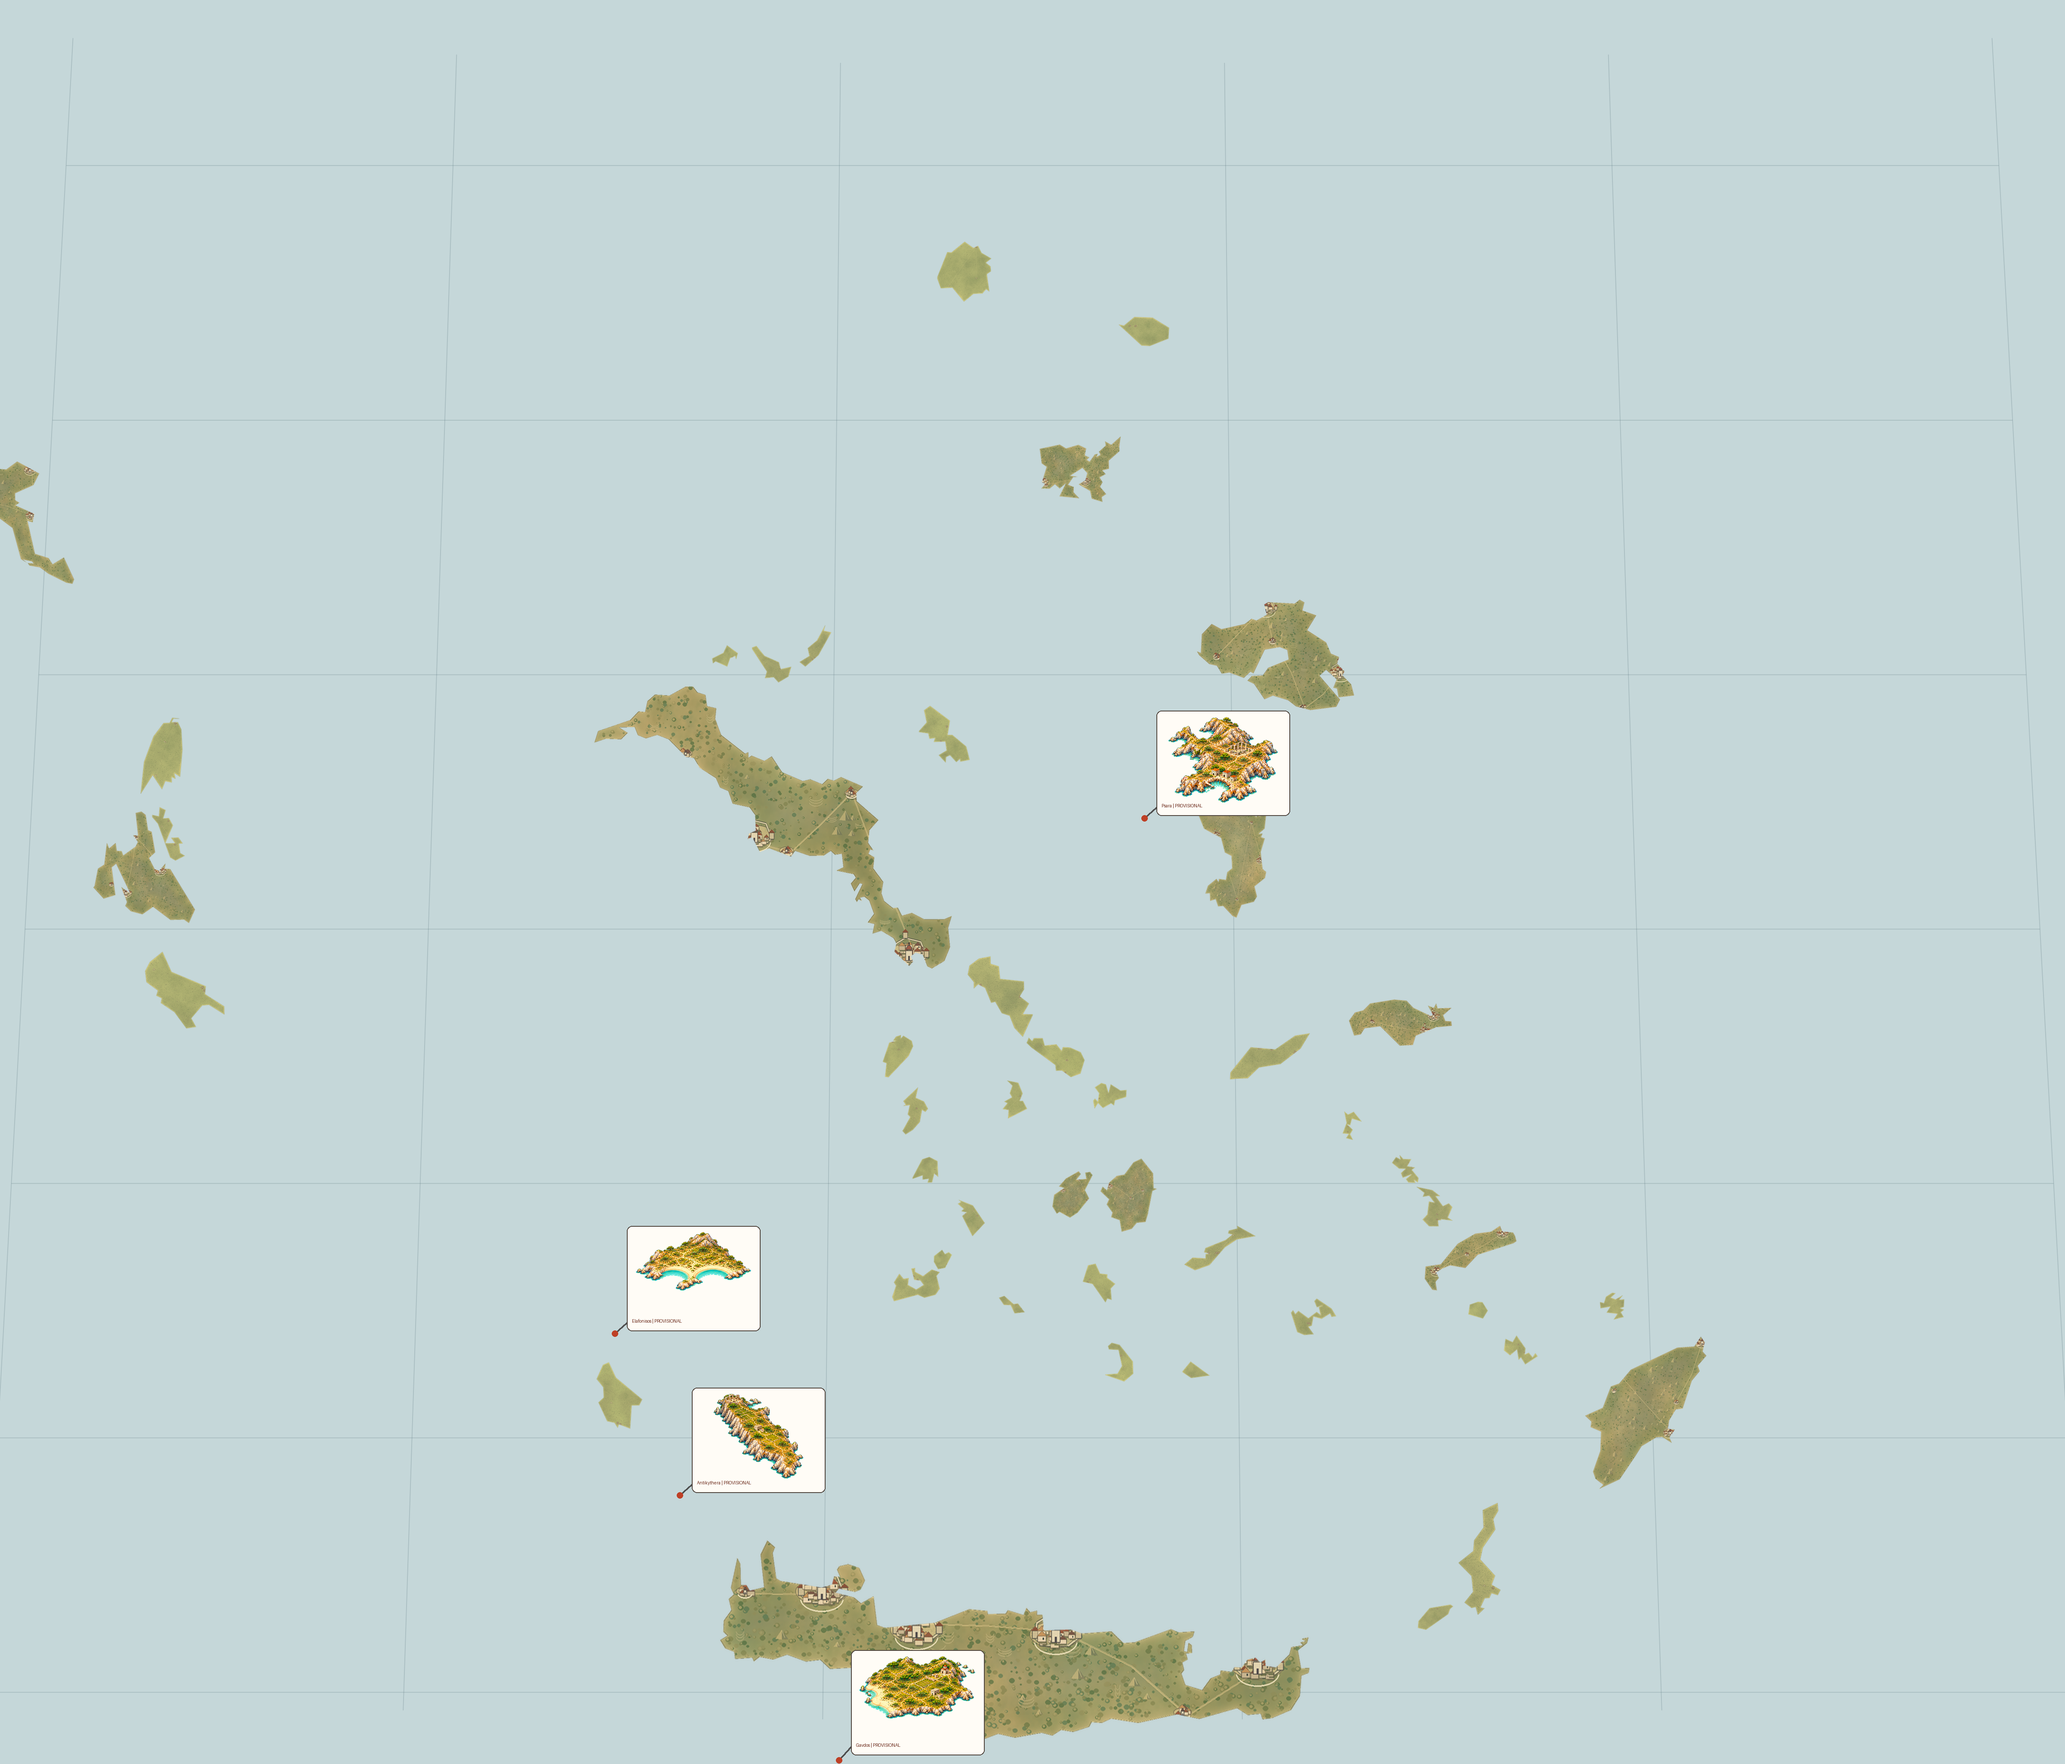
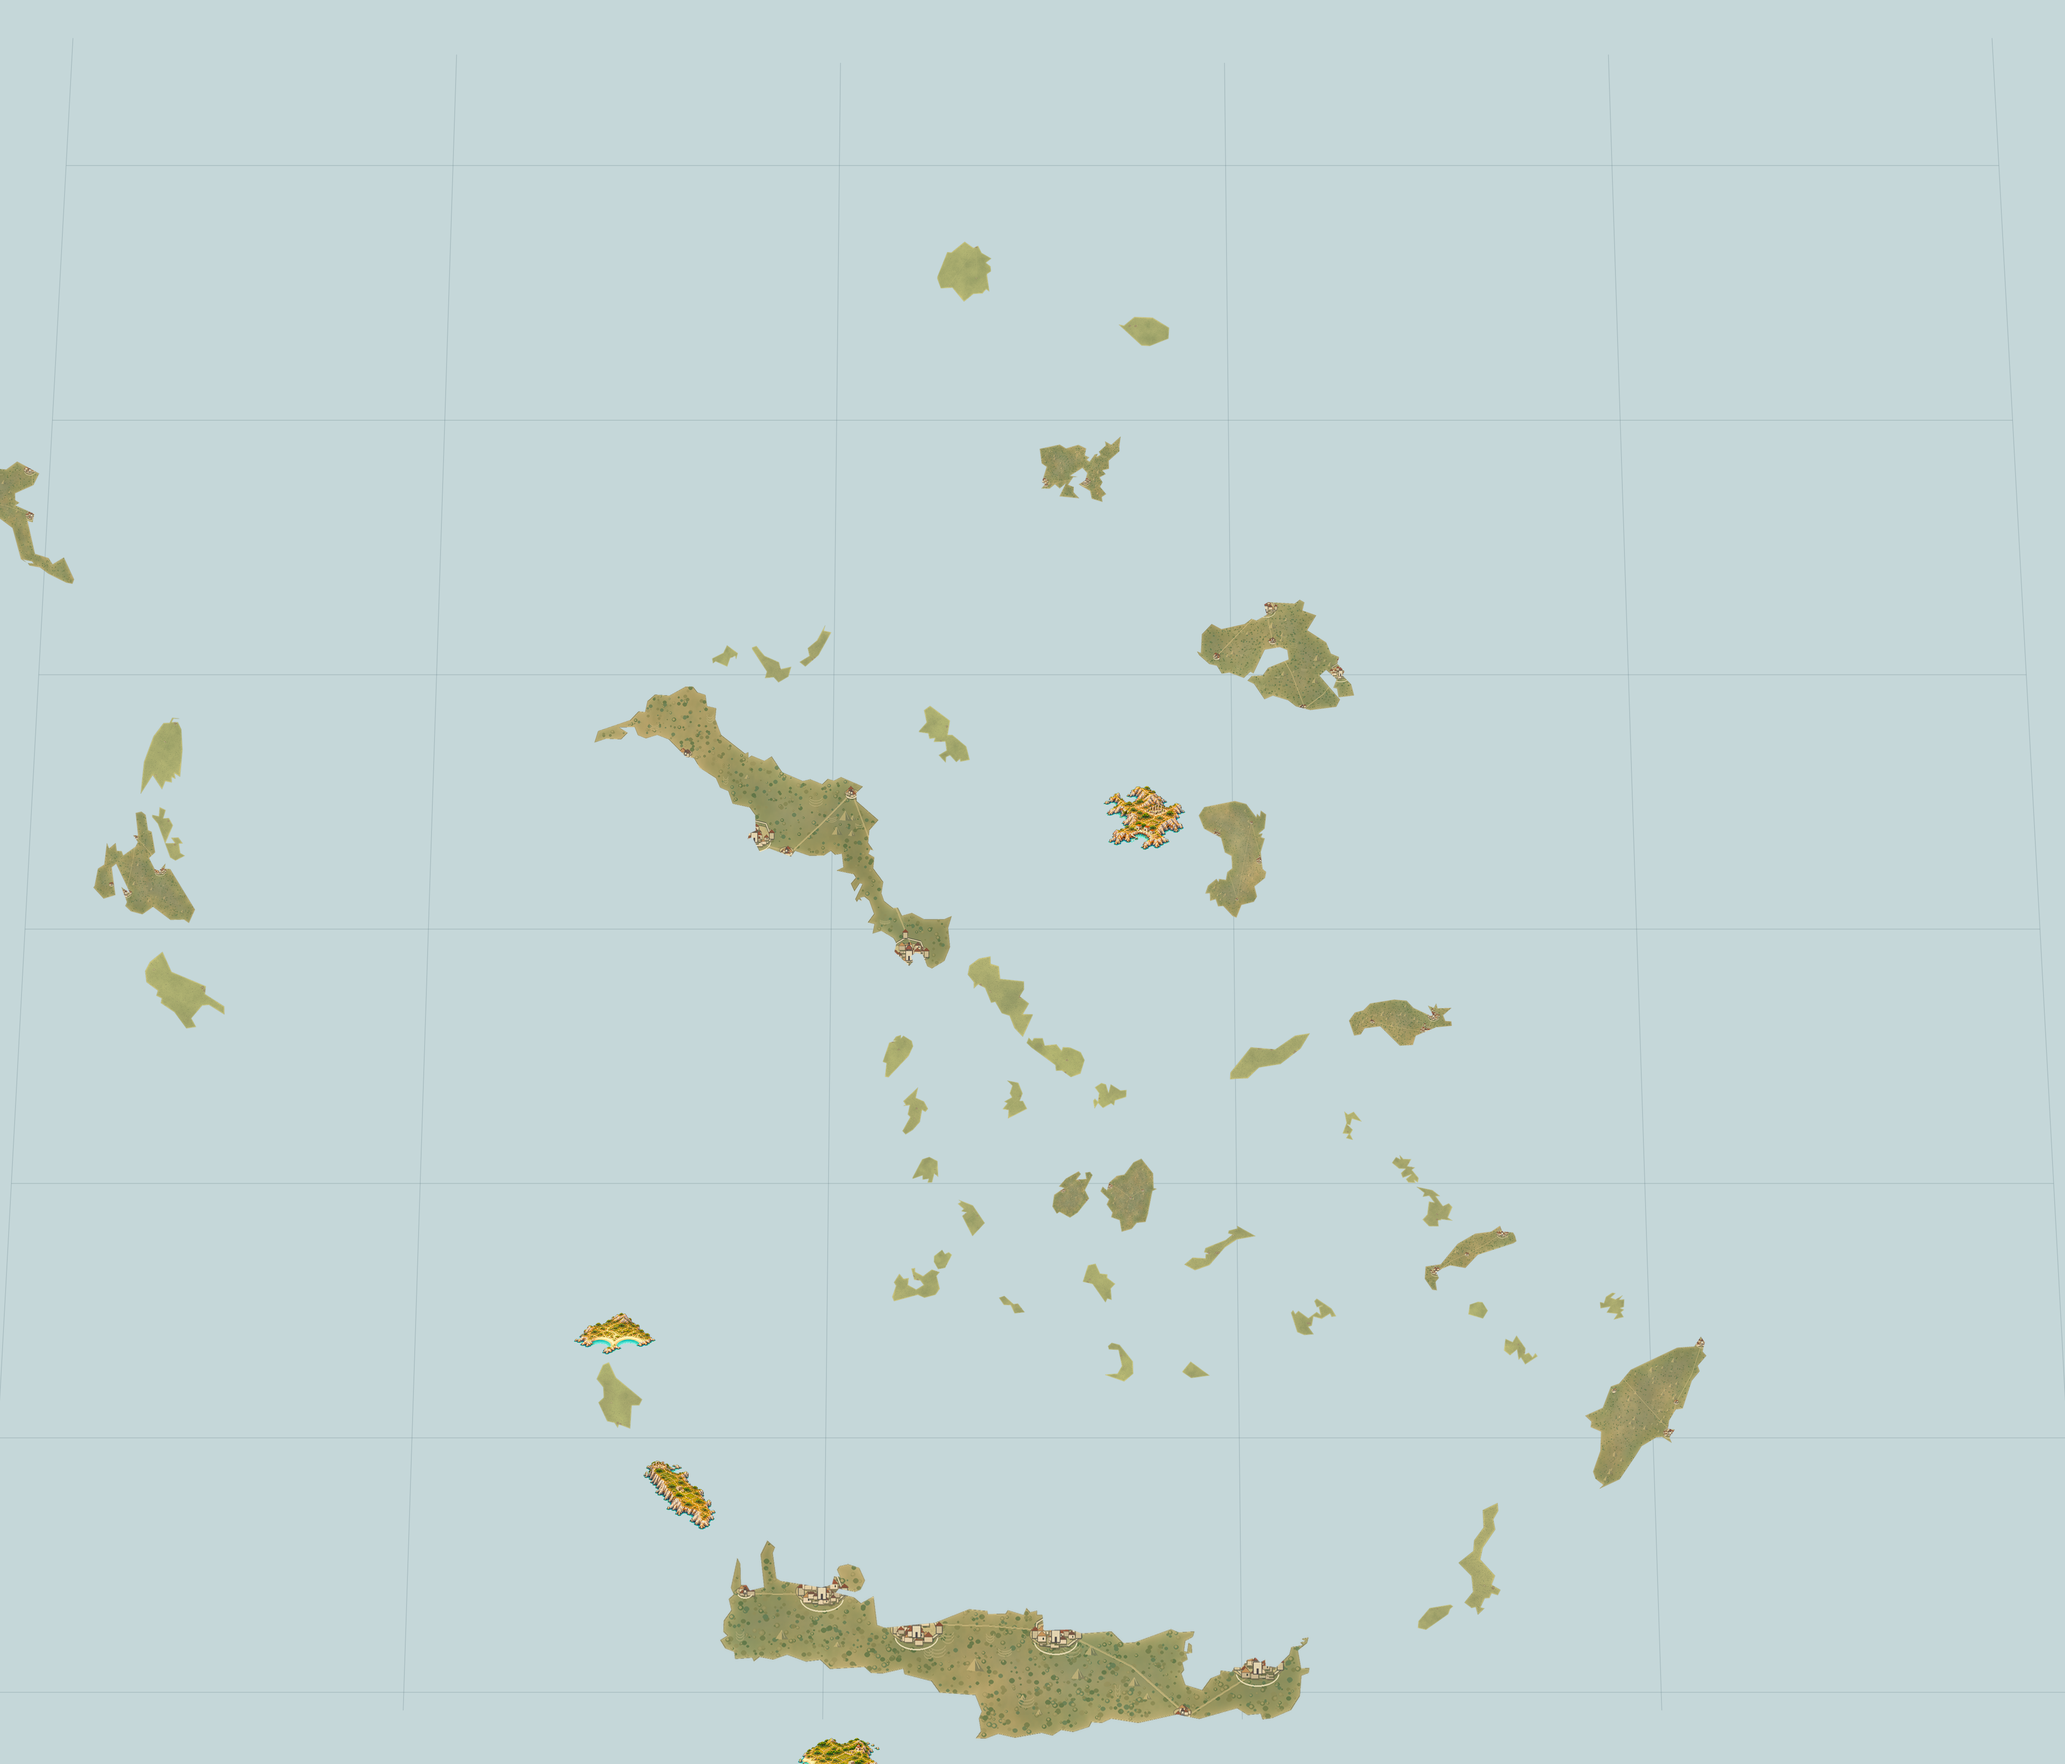
build: 4800px Aegean island QA review and candidate reconciliation [skip ci]

Changed region(s): [[0.2812, 0.6867, 0.4062, 0.8739], [0.375, 0.9364, 0.5, 1.0], [0.5312, 0.4058, 0.625, 0.4994]]

diff --git a/reports/greek-islands-review-2026-11-12/README.md b/reports/greek-islands-review-2026-11-12/README.md
@@ -23,7 +23,7 @@ The review PNG shows registered overlays on a projected coordinate graticule, no
 - reconciliation.json — inspected candidates and hashes
 - unplaced-artwork.csv — per-file QA queue
 - render-audit.json — actual renderer count and Corfu status
-- aegean-four-new-islands-review-4800px.png — four provisional image callouts at existing review markers
+- aegean-four-new-islands-review-4800px.png — true-alpha map sprite previews only; opaque sources held, no cards
 - four-new-islands-review-audit.json — explicit no-georegistration audit
 
 Review artwork remains subject to island identity, coastline geometry, alpha edge and historical-building QA.
